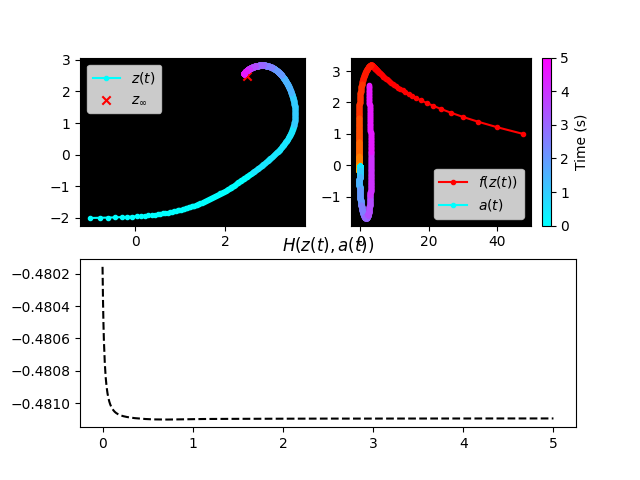
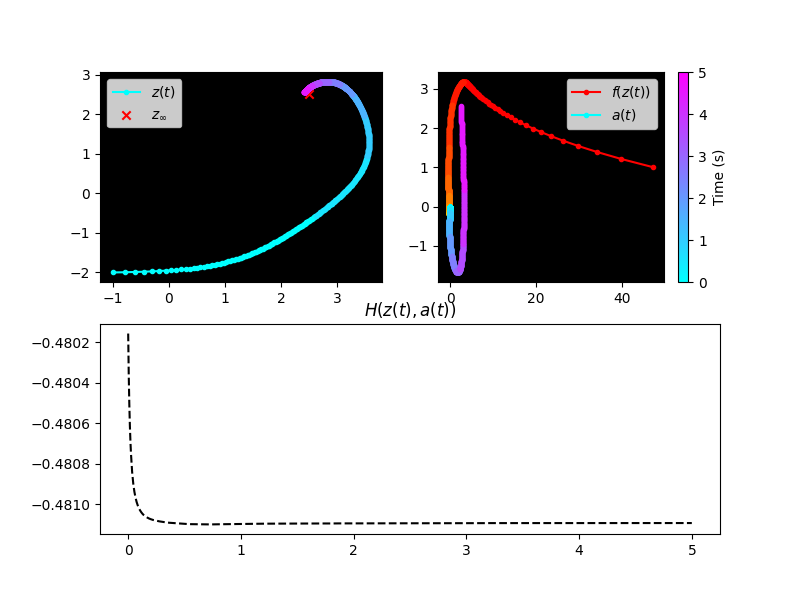
Small

diff --git a/gradient_flow_hamiltonian.py b/gradient_flow_hamiltonian.py
@@ -64,6 +64,7 @@ def plot_trajectory(ts, traj, name, cmap = mpl.colormaps['cool'], include_cbar =
 
 
 def analyze(z0):
+    global z_cache
     traj = odeint(f, z0, ts).T
     vel = f(traj, ts)
     z_cache = traj
@@ -73,7 +74,7 @@ def analyze(z0):
     aug_traj = odeint(f_aug, aug, ts[::-1]).T
     a_traj = aug_traj[2:, ::-1]
 
-    plt.figure()
+    plt.figure(figsize = (8, 6))
     plt.subplot(2,2,1)
     ax = plot_trajectory(ts, traj, '$z(t)$', include_cbar=False)
     ax.scatter(2.5, 2.5, label = '$z_{\\infty}$', c = 'red', marker = 'x')
